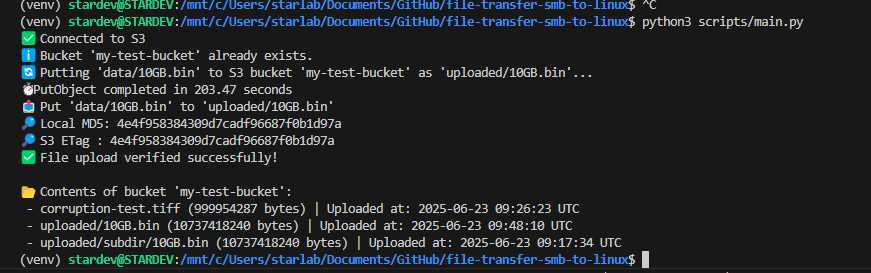
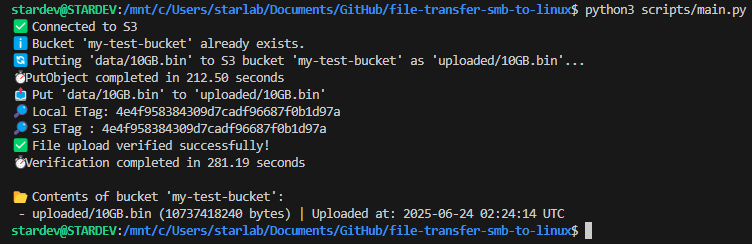
chore: add verification time

Changed region(s): [[0.0, 0.0, 1.0, 1.0]]

diff --git a/scripts/main.py b/scripts/main.py
@@ -1,4 +1,5 @@
 import os
+import time
 from lib.env_var import *
 from lib.utils import verify_upload, md5_checksum, calculate_s3_multipart_etag
 from lib.s3_client import get_s3_resource, ensure_bucket_exists, list_bucket_objects, upload_file_with_validation, put_object_with_validation
@@ -20,6 +21,9 @@ upload_file_with_validation(bucket, LOCAL_FILE_PATH, S3_KEY)
 # put_object_with_validation(bucket, LOCAL_FILE_PATH, S3_KEY)
 
 # # Verify with checksum
+start_time = time.time()  # ⏱ Start timer
+
+
 locallasttag = calculate_s3_multipart_etag(LOCAL_FILE_PATH)
 etag = s3.Object(BUCKET_NAME, S3_KEY).e_tag.strip('"')
 print(f"🔎 Local ETag: {locallasttag}")
@@ -30,6 +34,9 @@ if locallasttag == etag:
     print("✅ File upload verified successfully!")
 else:
     print("❌ Upload verification failed (checksum mismatch)")
+end_time = time.time()    # ⏱ End timer
+duration = end_time - start_time
+print(f"⏱ Verification completed in {duration:.2f} seconds")
 
 # List contents
 
